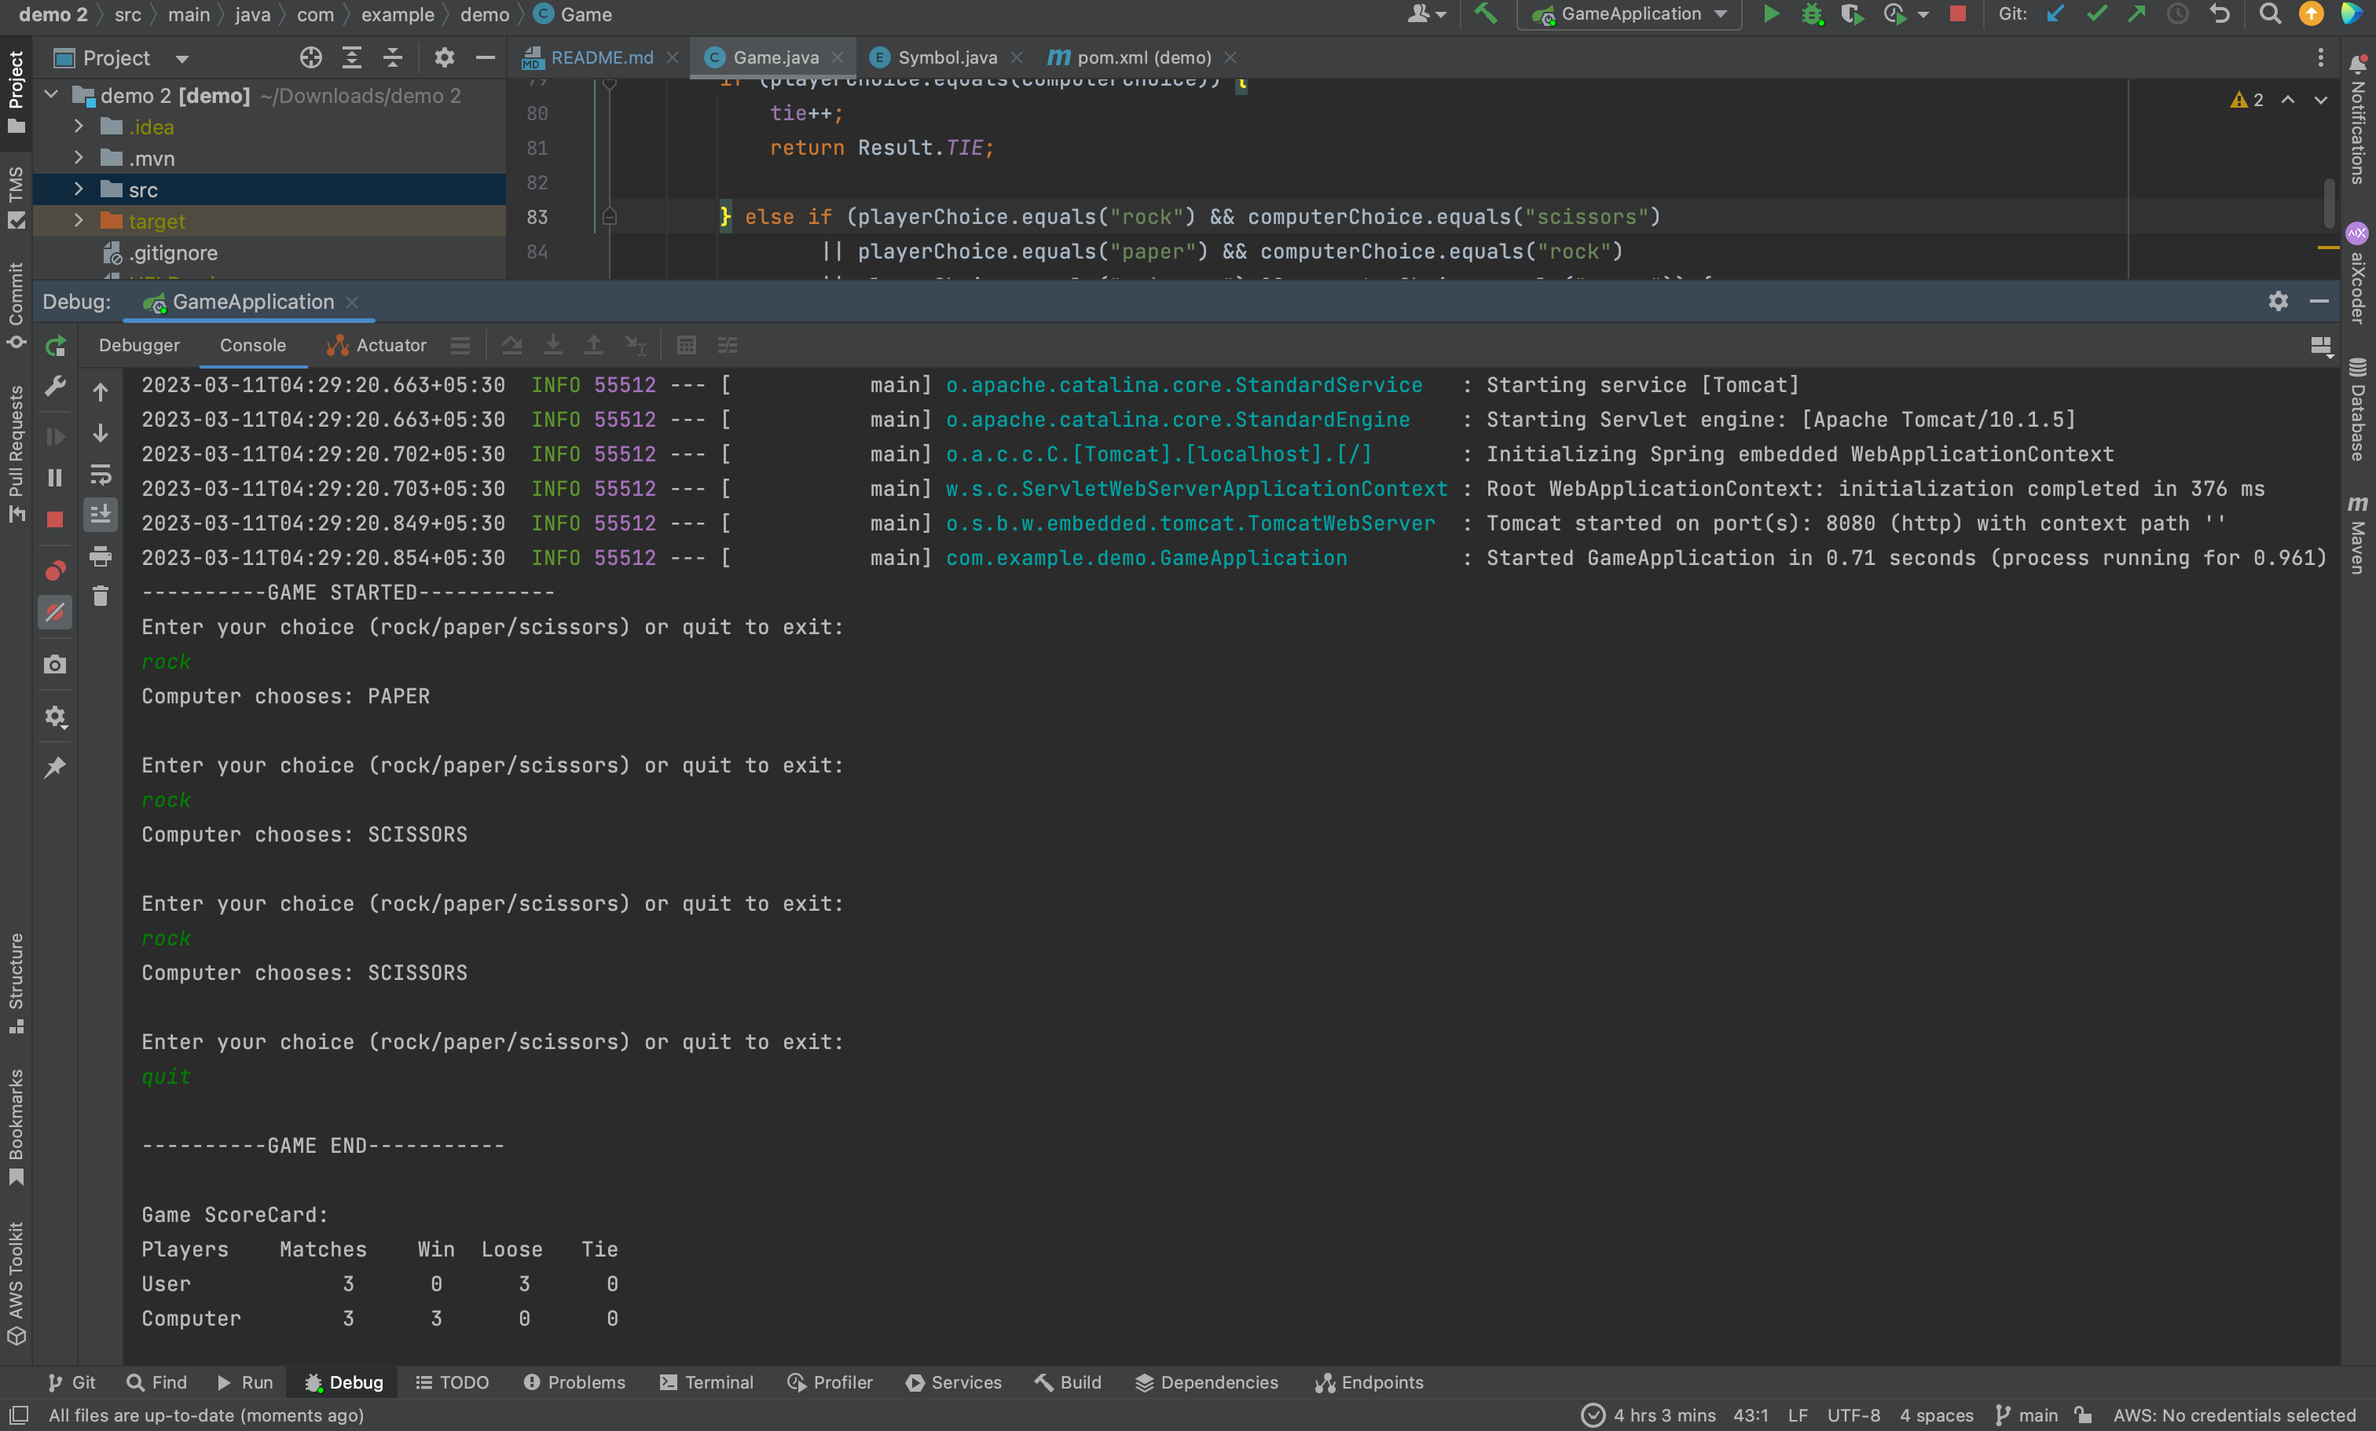
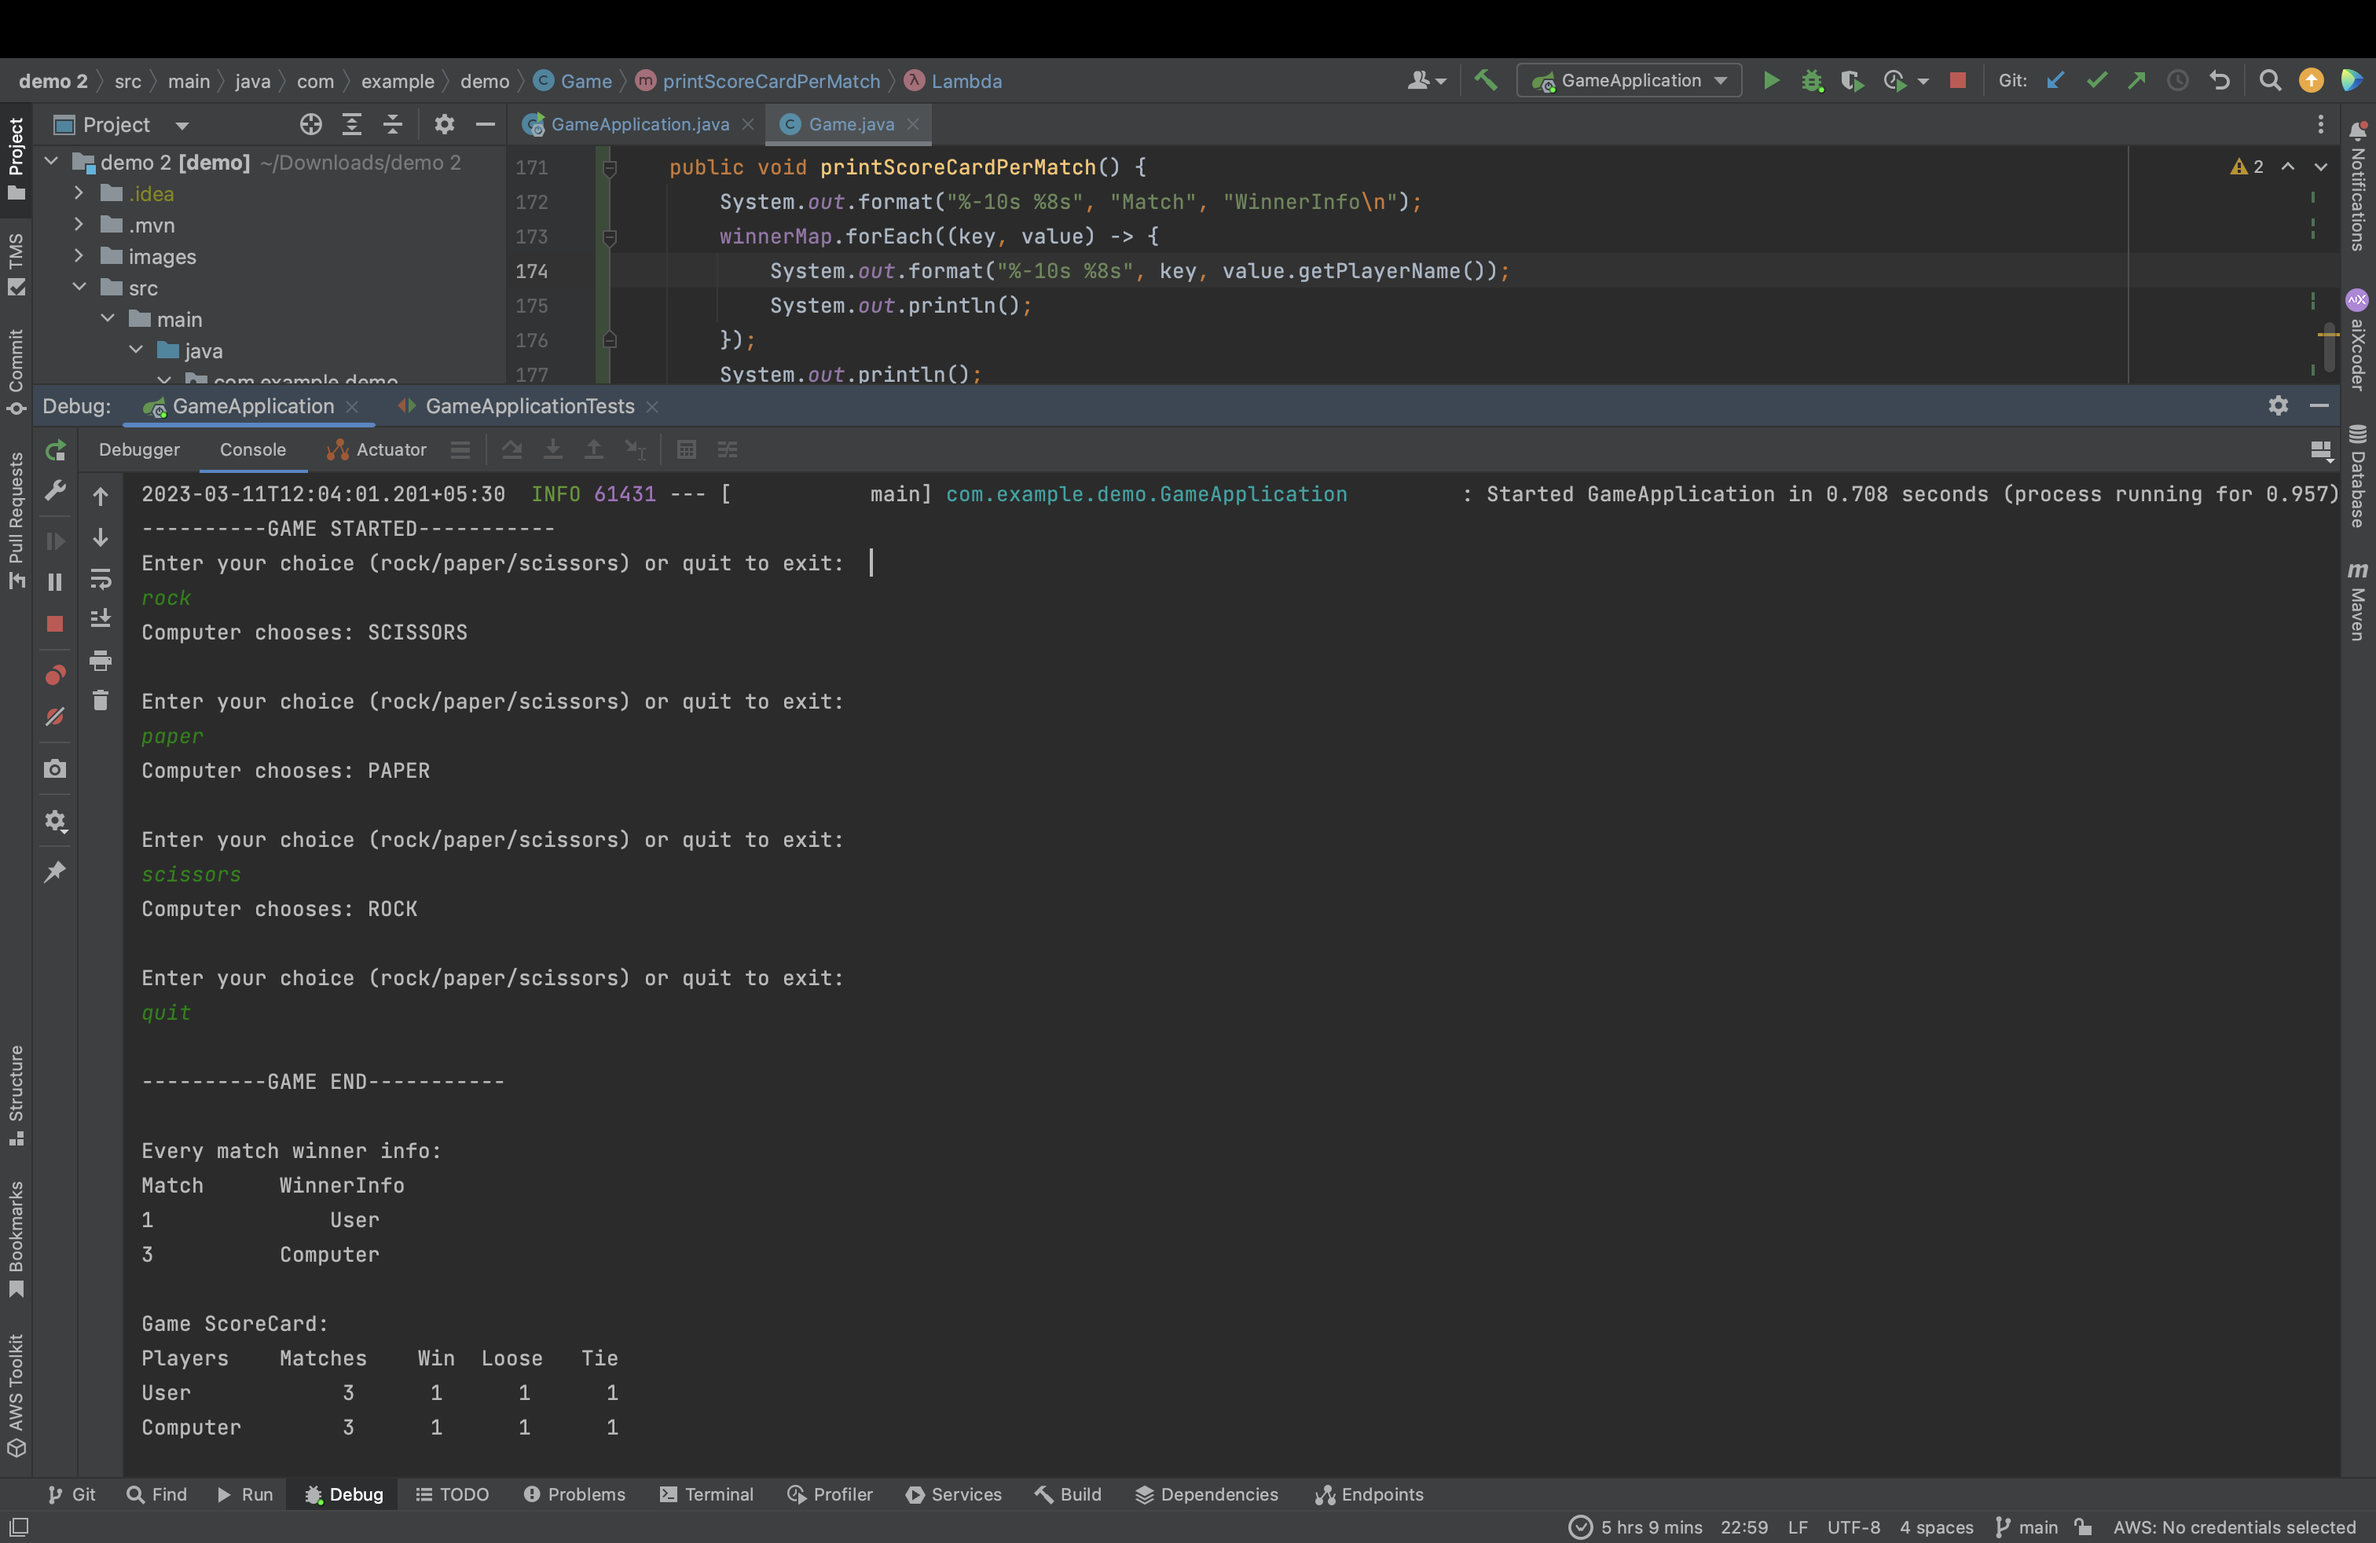
added method to get winnerName per match

diff --git a/src/main/java/com/example/demo/Game.java b/src/main/java/com/example/demo/Game.java
@@ -6,7 +6,9 @@ import lombok.Data;
 import lombok.NoArgsConstructor;
 
 import java.util.ArrayList;
+import java.util.HashMap;
 import java.util.List;
+import java.util.Map;
 import java.util.Objects;
 import java.util.Random;
 import java.util.Scanner;
@@ -25,6 +27,8 @@ public class Game {
     private Symbol[] options;
     private int noOfMatches;
     private int tie;
+
+    private Map<Integer, Player> winnerMap;
     private static final String USER = "User";
     private static final String COMPUTER = "Computer";
 
@@ -32,6 +36,7 @@ public class Game {
     public void initialize() {
         noOfMatches = 0;
         tie = 0;
+        winnerMap = new HashMap<>();
         status = Status.NOT_STARTED;
         options = new Symbol[]{ROCK, PAPER, SCISSORS};
         addPlayers();
@@ -75,7 +80,7 @@ public class Game {
 
         status = Status.FINISHED;
         scanner.close();
-        System.out.println("----------GAME END-----------");
+        System.out.println("----------GAME ENDED-----------");
         System.out.println();
     }
 
@@ -93,6 +98,7 @@ public class Game {
             Player user = players.stream().filter(p -> p.getPlayerName().equals(USER)).findFirst().orElse(null);
             if (Objects.nonNull(user)) {
                 user.updateScore();
+                winnerMap.put(noOfMatches, user);
             }
 
             return Result.WIN;
@@ -101,6 +107,7 @@ public class Game {
 
             if (Objects.nonNull(computer)) {
                 computer.updateScore();
+                winnerMap.put(noOfMatches, computer);
             }
             return Result.LOOSE;
         }
@@ -159,5 +166,15 @@ public class Game {
             );
             System.out.println();
         }
+    }
+
+    // This method will print the winner name per match in one session
+    public void printScoreCardPerMatch() {
+        System.out.format("%-10s %8s", "Match", "WinnerInfo\n");
+        winnerMap.forEach((key, value) -> {
+            System.out.format("%-10s %8s", key, value.getPlayerName());
+            System.out.println();
+        });
+        System.out.println();
     }
 }

diff --git a/src/main/java/com/example/demo/GameApplication.java b/src/main/java/com/example/demo/GameApplication.java
@@ -13,6 +13,9 @@ public class GameApplication {
         rockPaperScissors.initialize();
         rockPaperScissors.start();
 
+        System.out.println("Every match winner info: ");
+        System.out.println("[If information about the winner of a match is not printed, it means that the match ended in a tie.]");
+        rockPaperScissors.printScoreCardPerMatch();
         System.out.println("Game ScoreCard: ");
         rockPaperScissors.printScoreCard();
     }
